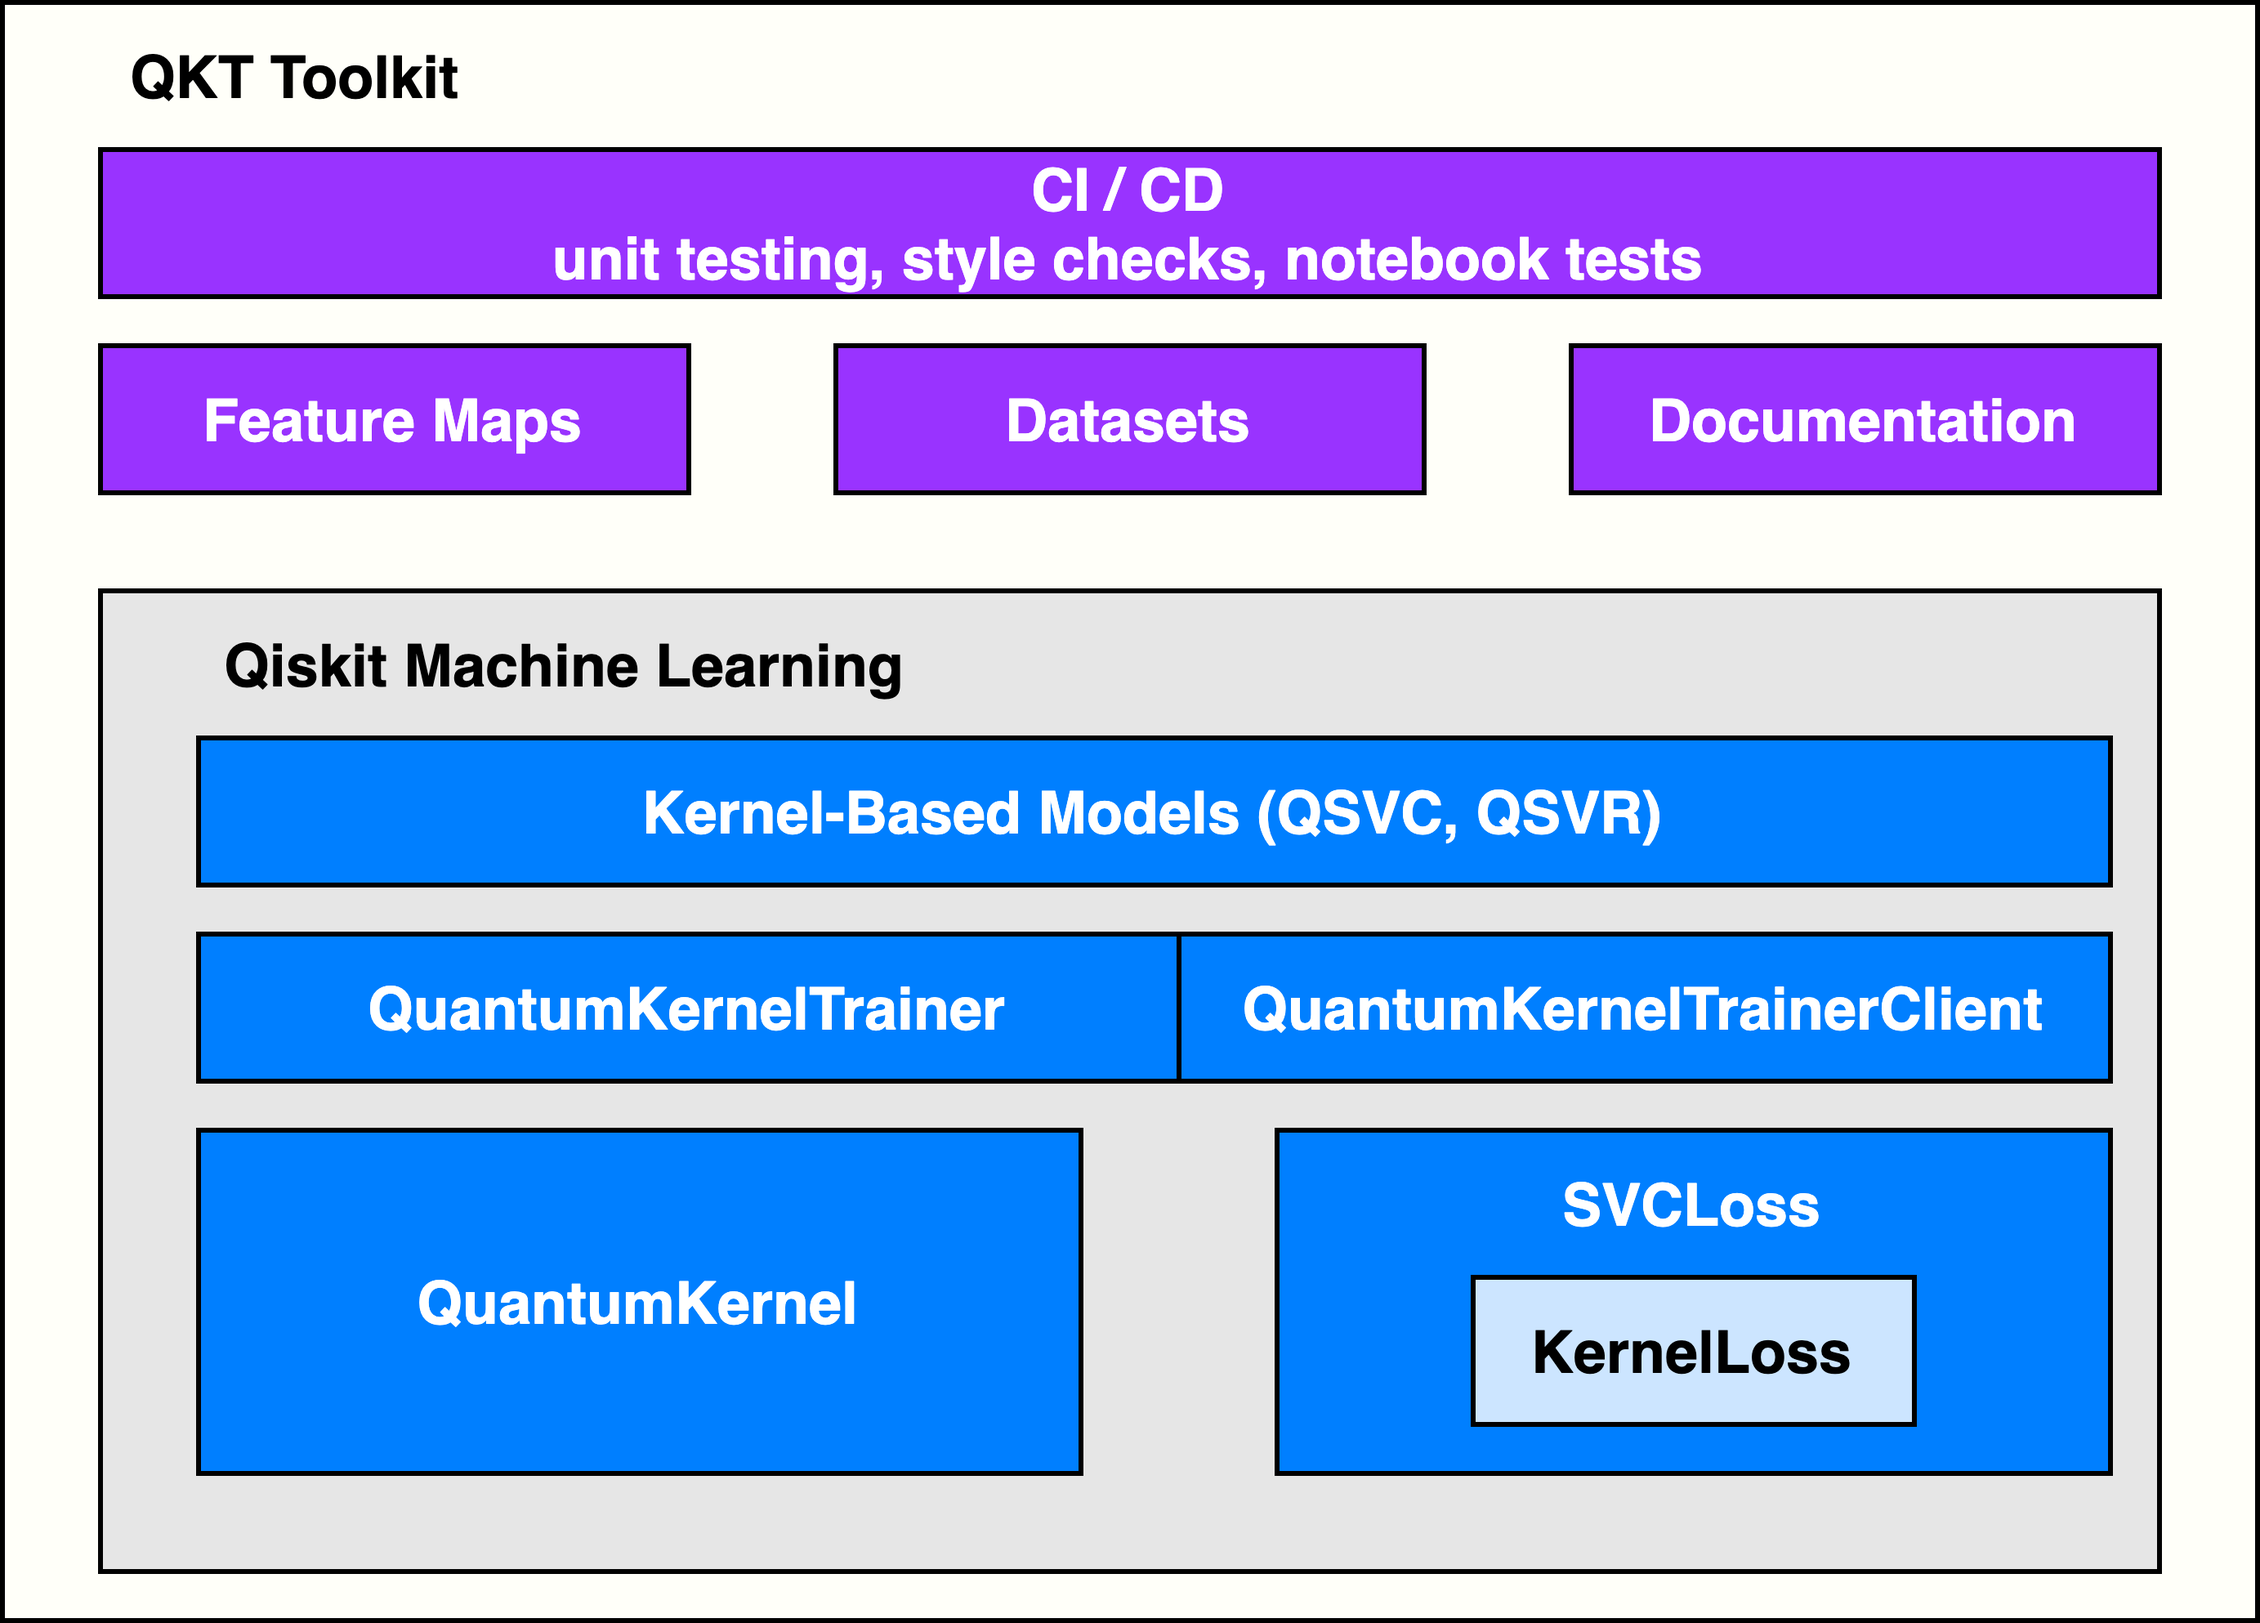
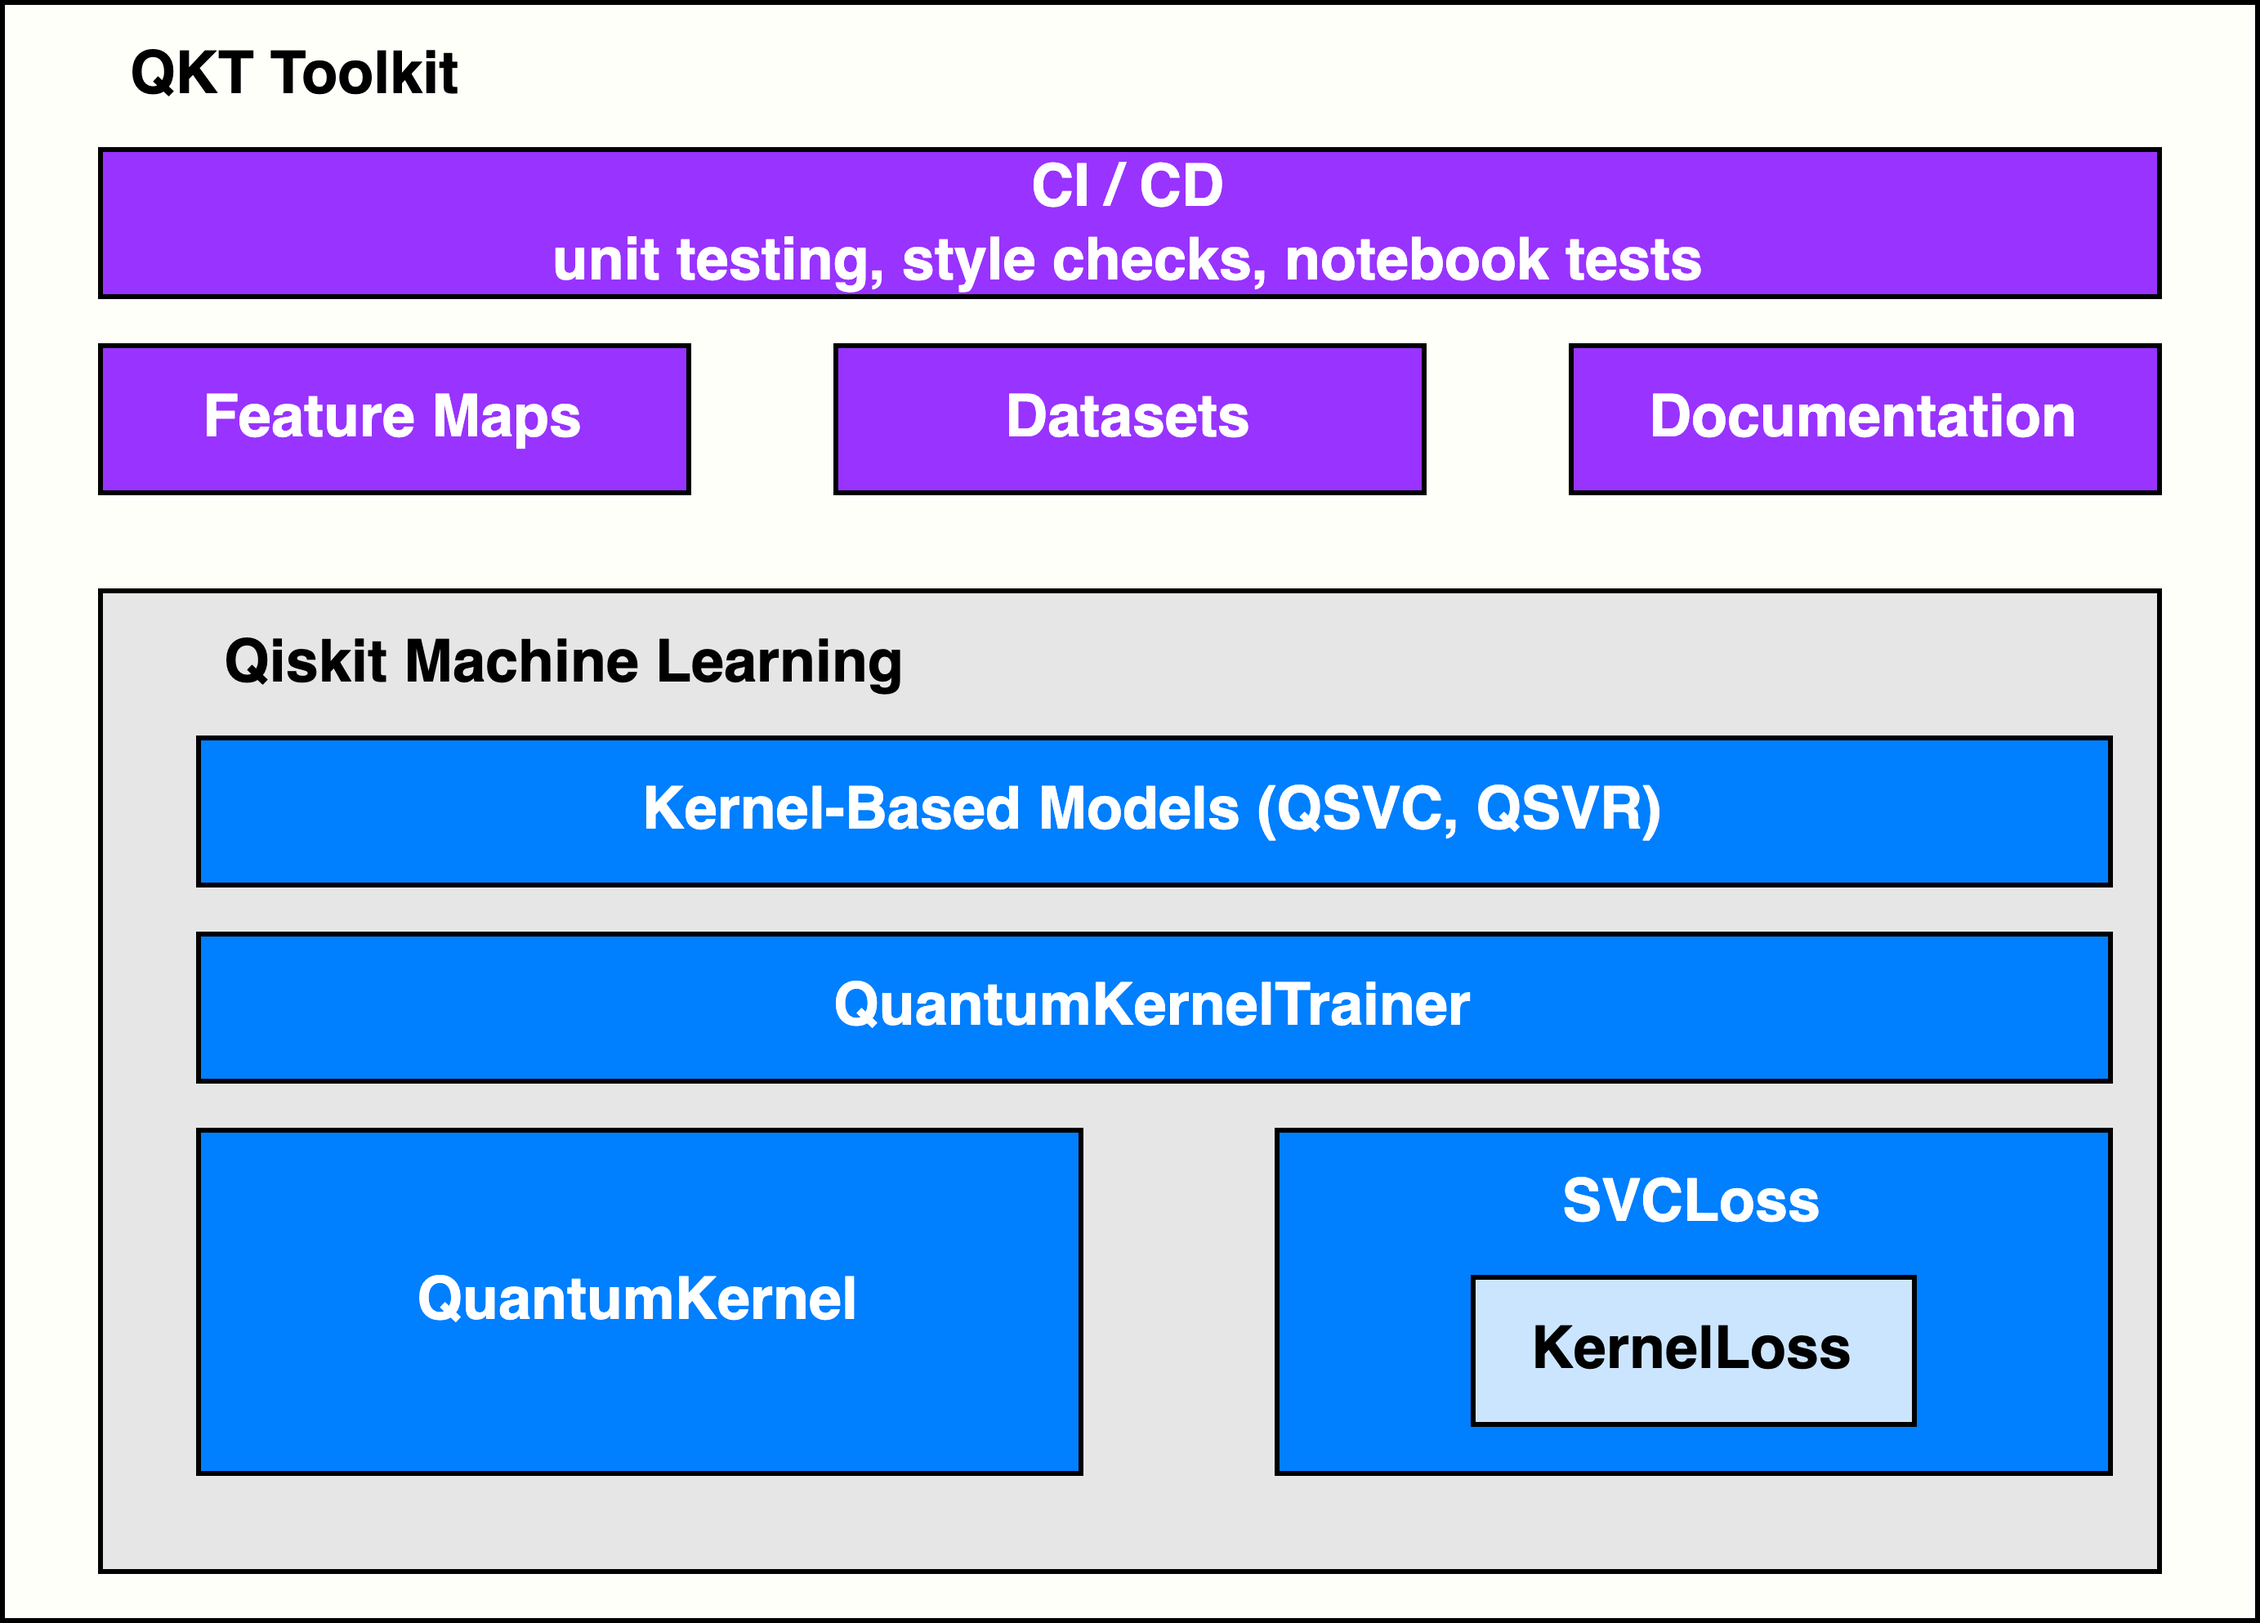
Update readme (#14)
* Update readme

* remove arch image

* Add arch image

* Update text

diff --git a/README.md b/README.md
@@ -19,7 +19,6 @@
 * [Tutorials](docs/tutorials/)
 * [How-Tos](docs/how_tos/)
 * [Background](docs/background/)
-* [Using Quantum Services](#using-quantum-services)
 * [How to Give Feedback](#how-to-give-feedback)
 * [Contribution Guidelines](#contribution-guidelines)
 * [Acknowledgements](#acknowledgements)
@@ -66,7 +65,6 @@ The structure of the QKT Toolkit is illustrated in the diagram below. New compon
 ***New Integrations into Qiskit Machine Learning***
 
 * `QuantumKernelTrainer`: (New) Class to manage quantum kernel training for a given loss function and optimizer.
-* `QuantumKernelTrainerClient`: (Coming Soon) Client to call the quantum kernel trainer program in Qiskit Runtime. Interchangable with `QuantumKernelTrainer`.
 * `QuantumKernel`: Option to handle quantum kernels with trainable parameters.
 * `KernelLoss`: (New) Base class to calculate loss of quantum kernel functions over trainable parameters and input data.
 * `SVCLoss(KernelLoss)`: (New) Class to compute loss corresponding to QKA for classification tasks.
@@ -83,16 +81,6 @@ The QKT Toolkit includes documentation split into
 - [Tutorials](docs/tutorials): longer examples of end-to-end usage
 - [How-to guides](docs/how_tos): targeted answers to common questions
 - [Background material](docs/background): in-depth information about quantum kernels and algorithms
-
-
-----------------------------------------------------------------------------------------------------
-
-<!-- USING QUANTUM SERVICES -->
-### Using Quantum Services
-
-If you are interested in using quantum services (i.e. using a real quantum computer, not a simulator) you can look at the Qiskit Partners program for partner organizations that have provider packages available for their offerings:
-
-https://qiskit.org/documentation/partners/
 
 
 ----------------------------------------------------------------------------------------------------
